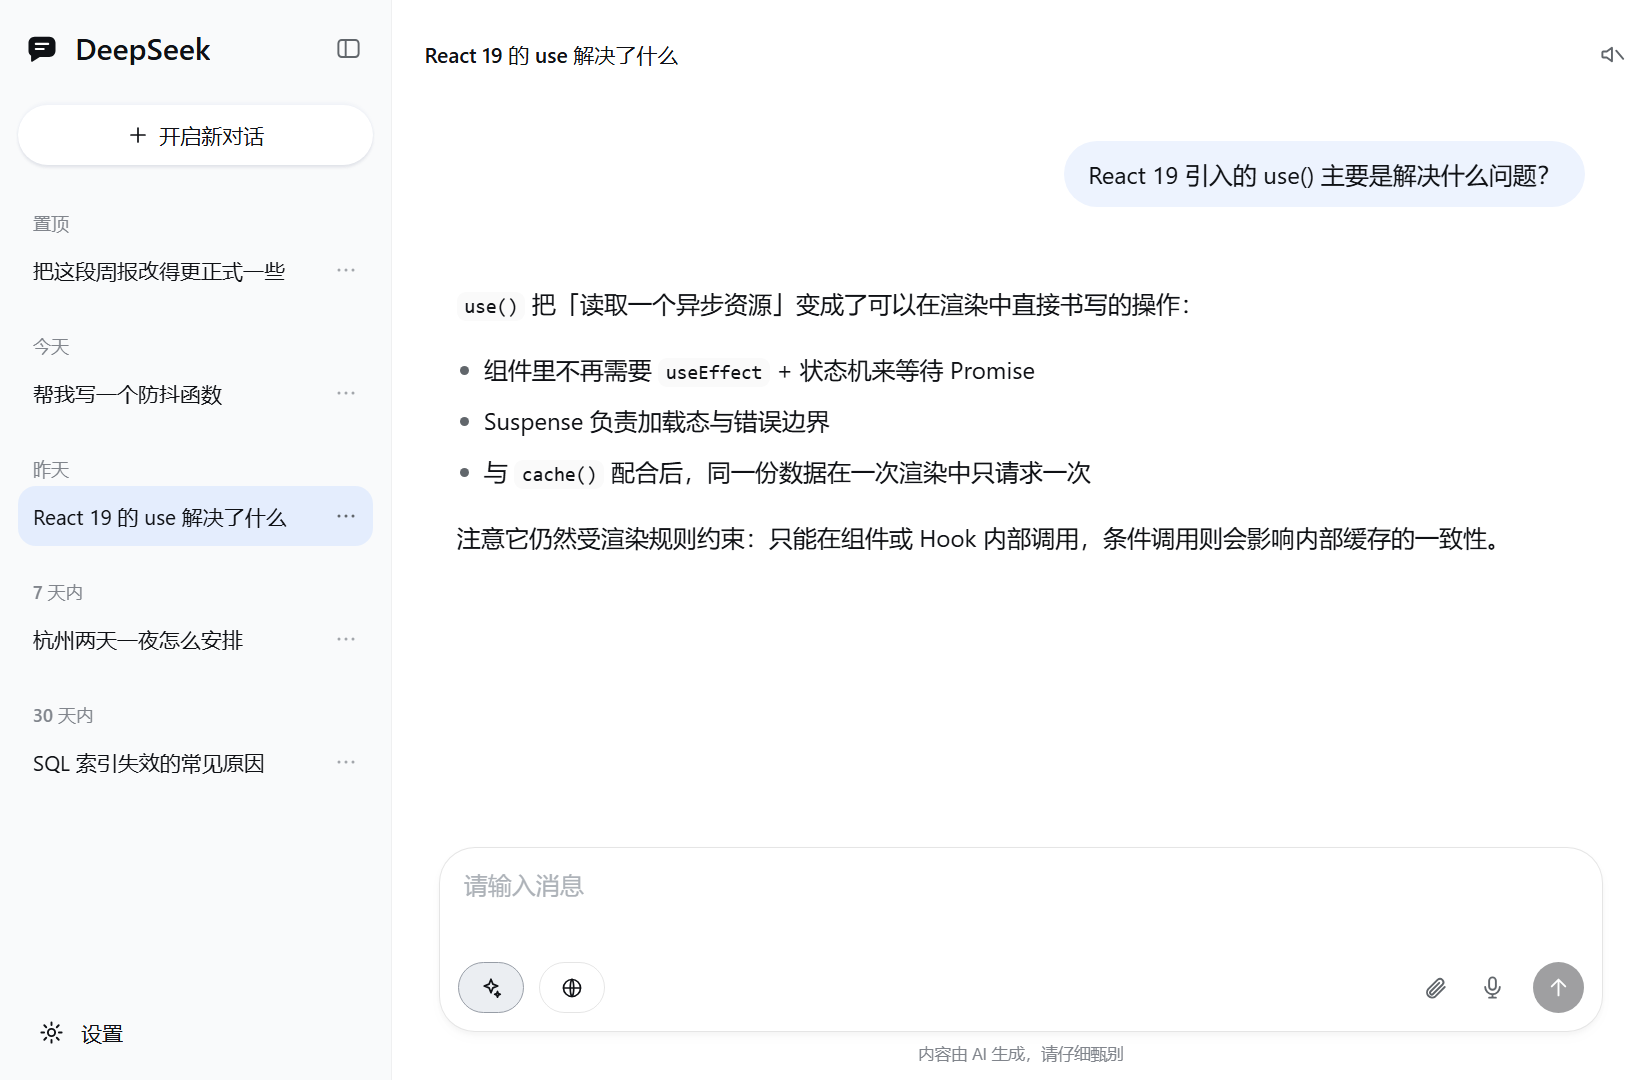
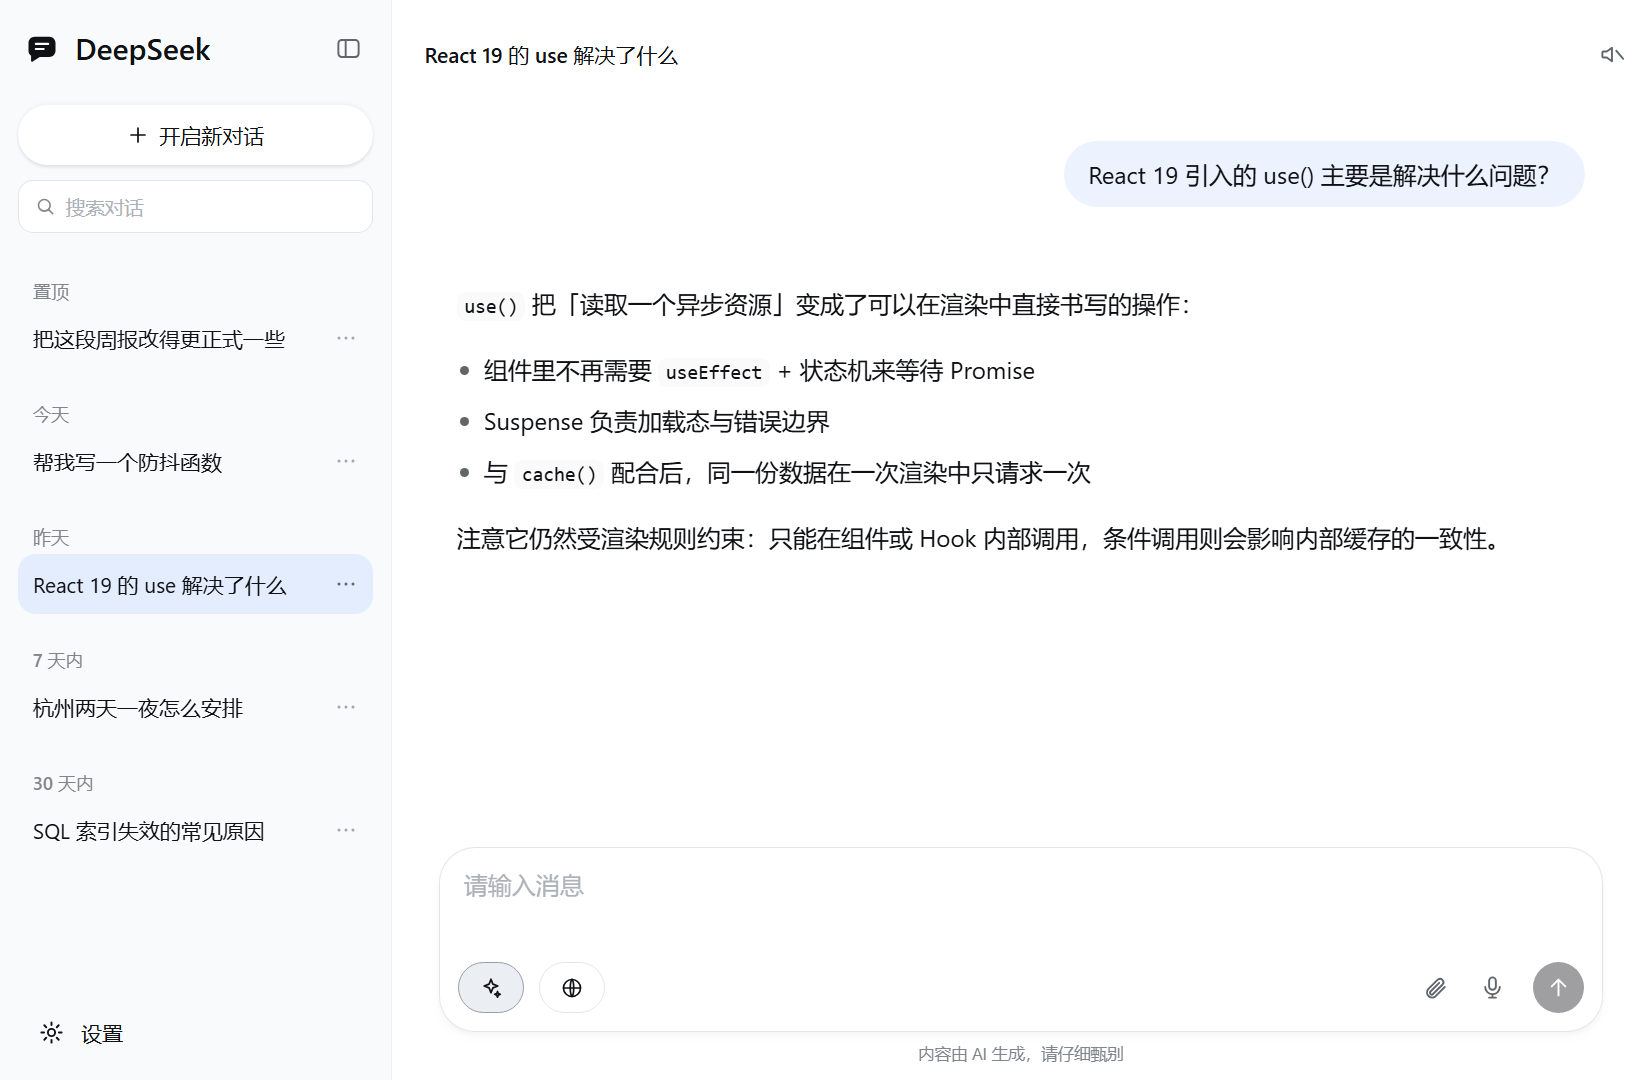
feat: per-conversation drafts and conversation search (v1.1.0)
- drafts keyed by conversation (and a __new__ slot) with their own
  debounced store, flushed on unmount; deleting a conversation drops it
- sidebar search filters titles and message bodies, with clear/Esc
  handling and a dedicated empty state
- new stylesheet guard caught a class collision with the web-search
  status row, so the filter uses cd-filter-* names
- tests cover both features (70 assertions); README screenshots refreshed

diff --git a/client.js b/client.js
@@ -14,6 +14,9 @@ window.__ModuleLoader__.load({
     const API = '/chat-replica';
     const STORE_THREADS = 'deepseek-chat-ui.threads.v1';
     const STORE_ACTIVE = 'deepseek-chat-ui.active.v1';
+    const STORE_DRAFTS = 'deepseek-chat-ui.drafts.v1';
+    /** 新建对话视图在草稿表里的键；真实会话用各自的 id。 */
+    const DRAFT_NEW = '__new__';
     const STORE_PREFS = 'deepseek-chat-ui.prefs.v1';
     const STORE_EXPORT_DIR = 'deepseek-chat-ui.export-dir.v1';
     const STORE_THEME_PREF = 'deepseek-chat-ui.theme-pref.v1';
@@ -116,6 +119,9 @@ window.__ModuleLoader__.load({
       'search.running': '正在搜索网页…',
       'search.failed': '联网搜索暂不可用',
       'search.count': '已阅读 {count} 个网页',
+      'search.placeholder': '搜索对话',
+      'search.clear': '清除',
+      'search.empty': '没有匹配的对话',
       'group.pinned': '置顶',
       'menu.open': '更多操作',
       'menu.rename': '重命名',
@@ -230,6 +236,9 @@ window.__ModuleLoader__.load({
       'search.running': 'Searching the web…',
       'search.failed': 'Web search is unavailable',
       'search.count': 'Read {count} web pages',
+      'search.placeholder': 'Search conversations',
+      'search.clear': 'Clear',
+      'search.empty': 'No matching conversations',
       'group.pinned': 'Pinned',
       'menu.open': 'More actions',
       'menu.rename': 'Rename',
@@ -408,6 +417,10 @@ window.__ModuleLoader__.load({
         ['path', { d: 'M5.5 11.5a6.5 6.5 0 0 0 13 0M12 18v3M9 21h6' }],
       ],
       x: [['path', { d: 'M6.5 6.5l11 11M17.5 6.5l-11 11' }]],
+      search: [
+        ['circle', { cx: 11, cy: 11, r: 6.2 }],
+        ['path', { d: 'M15.6 15.6L20 20' }],
+      ],
       chevronLeft: [['path', { d: 'M14.5 6l-6 6 6 6' }]],
       chevronDown: [['path', { d: 'M6 9.5l6 6 6-6' }]],
       volume: [
@@ -661,6 +674,23 @@ window.__ModuleLoader__.load({
         /* a corrupt store falls back to the seed */
       }
       return { threads: threads, activeId: activeId, prefs: loadPrefs() };
+    }
+
+    /** 每条对话各存一份草稿；新建对话视图用 DRAFT_NEW 作键。 */
+    function loadDrafts() {
+      const out = {};
+      try {
+        const raw = window.localStorage.getItem(STORE_DRAFTS);
+        const stored = raw ? JSON.parse(raw) : null;
+        if (stored !== null && typeof stored === 'object') {
+          Object.keys(stored).forEach(function (key) {
+            if (typeof stored[key] === 'string' && stored[key] !== '') out[key] = stored[key];
+          });
+        }
+      } catch (error) {
+        /* a corrupt store starts empty */
+      }
+      return out;
     }
 
     /** Accept our own export shape (or a bare array) and rebuild safe threads. */
@@ -1684,11 +1714,26 @@ window.__ModuleLoader__.load({
 
     function Sider(props) {
       const t = props.t;
+      const [query, setQuery] = useState('');
+      const needle = query.trim().toLowerCase();
+      /** 搜索命中标题或任意一条消息的正文；空查询直接返回全部。 */
+      const visibleThreads = useMemo(
+        function () {
+          if (needle === '') return props.threads;
+          return props.threads.filter(function (thread) {
+            if (thread.title.toLowerCase().indexOf(needle) >= 0) return true;
+            return thread.messages.some(function (message) {
+              return typeof message.text === 'string' && message.text.toLowerCase().indexOf(needle) >= 0;
+            });
+          });
+        },
+        [props.threads, needle],
+      );
       const groups = useMemo(
         function () {
-          return groupThreads(props.threads, t);
+          return groupThreads(visibleThreads, t);
         },
-        [props.threads, t],
+        [visibleThreads, t],
       );
       const [menu, setMenu] = useState(null);
       const menuRef = useRef(null);
@@ -1858,6 +1903,41 @@ window.__ModuleLoader__.load({
             ),
         h(
           'div',
+          { className: 'cd-filter' },
+          h(Icon, { name: 'search', size: 15 }),
+          h('input', {
+            className: 'cd-filter-input',
+            type: 'search',
+            value: query,
+            placeholder: t('search.placeholder'),
+            'aria-label': t('search.placeholder'),
+            onChange: function (event) {
+              setQuery(event.target.value);
+            },
+            onKeyDown: function (event) {
+              if (event.key !== 'Escape') return;
+              event.stopPropagation();
+              if (query !== '') setQuery('');
+            },
+          }),
+          query === ''
+            ? null
+            : h(
+                'button',
+                {
+                  type: 'button',
+                  className: 'cd-filter-clear',
+                  title: t('search.clear'),
+                  'aria-label': t('search.clear'),
+                  onClick: function () {
+                    setQuery('');
+                  },
+                },
+                h(Icon, { name: 'x', size: 13 }),
+              ),
+        ),
+        h(
+          'div',
           { className: 'cd-listwrap' },
           h(
             'div',
@@ -1867,7 +1947,13 @@ window.__ModuleLoader__.load({
                 if (menu !== null) setMenu(null);
               },
             },
-            groups.length === 0 ? h('div', { className: 'cd-list-empty' }, t('list.empty')) : null,
+            groups.length === 0
+              ? h(
+                  'div',
+                  { className: 'cd-list-empty' },
+                  needle === '' ? t('list.empty') : t('search.empty'),
+                )
+              : null,
             groups.map(function (group) {
               return h(
                 'div',
@@ -2347,11 +2433,15 @@ window.__ModuleLoader__.load({
       const localeService = getLocale ? getLocale() : null;
       const wide = useMedia('(min-width: 768px)');
       const initial = useRef(null);
-      if (initial.current === null) initial.current = Object.assign(loadState(), { tts: loadTts() });
+      if (initial.current === null) {
+        initial.current = Object.assign(loadState(), { tts: loadTts(), drafts: loadDrafts() });
+      }
 
       const [threads, setThreads] = useState(initial.current.threads);
       const [activeId, setActiveId] = useState(initial.current.activeId);
-      const [draft, setDraft] = useState('');
+      const [drafts, setDrafts] = useState(function () {
+        return initial.current.drafts;
+      });
       const [localeId, setLocaleId] = useState(function () {
         return readLocaleId(localeService);
       });
@@ -2411,6 +2501,45 @@ window.__ModuleLoader__.load({
           /* a full quota must not break the conversation */
         }
       }, []);
+
+      /** 草稿单独存：输入框按会话隔离，切换对话既不串也不丢。 */
+      const latestDraftsRef = useRef(initial.current.drafts);
+      latestDraftsRef.current = drafts;
+      const saveDraftsNow = useCallback(function (map) {
+        try {
+          const clean = {};
+          Object.keys(map).forEach(function (key) {
+            if (typeof map[key] === 'string' && map[key] !== '') clean[key] = map[key];
+          });
+          if (Object.keys(clean).length === 0) window.localStorage.removeItem(STORE_DRAFTS);
+          else window.localStorage.setItem(STORE_DRAFTS, JSON.stringify(clean));
+        } catch (error) {
+          /* a full quota must not break typing */
+        }
+      }, []);
+
+      const draftKey = activeId === null ? DRAFT_NEW : activeId;
+      const draft = drafts[draftKey] === undefined ? '' : drafts[draftKey];
+      const setDraftFor = useCallback(function (key, value) {
+        setDrafts(function (previous) {
+          const currentValue = previous[key] === undefined ? '' : previous[key];
+          const nextValue = typeof value === 'function' ? value(currentValue) : value;
+          if (nextValue === currentValue) return previous;
+          const next = Object.assign({}, previous);
+          if (nextValue === '') delete next[key];
+          else next[key] = nextValue;
+          return next;
+        });
+      }, []);
+      /** 输入框默认写当前会话；异步回调（如转写）也总能落到最新会话上。 */
+      const draftKeyRef = useRef(draftKey);
+      draftKeyRef.current = draftKey;
+      const setDraft = useCallback(
+        function (value) {
+          setDraftFor(draftKeyRef.current, value);
+        },
+        [setDraftFor],
+      );
 
       const dict = localeId === 'en' ? en : zh;
       const t = useCallback(
@@ -2503,6 +2632,19 @@ window.__ModuleLoader__.load({
         [threads, activeId, saveNow],
       );
 
+      /** 草稿变化也做短防抖：打字不落盘，停手 300 ms 后一次写入。 */
+      useEffect(
+        function () {
+          const timer = setTimeout(function () {
+            saveDraftsNow(latestDraftsRef.current);
+          }, 300);
+          return function () {
+            clearTimeout(timer);
+          };
+        },
+        [drafts, saveDraftsNow],
+      );
+
       /**
        * 切换面板会卸载本页，而上面的清理函数会取消待写的防抖任务，导致刚删除 /
        * 置顶 / 改名的对话在重新进入时“复活”。卸载前补写一次快照；App 关闭
@@ -2516,6 +2658,7 @@ window.__ModuleLoader__.load({
               saveTimerRef.current = null;
             }
             saveNow(latestSaveRef.current.threads, latestSaveRef.current.activeId);
+            saveDraftsNow(latestDraftsRef.current);
           };
           window.addEventListener('pagehide', flush);
           return function () {
@@ -2523,7 +2666,7 @@ window.__ModuleLoader__.load({
             flush();
           };
         },
-        [saveNow],
+        [saveNow, saveDraftsNow],
       );
 
       useEffect(
@@ -2918,11 +3061,11 @@ window.__ModuleLoader__.load({
             });
           });
           setActiveId(targetId);
-          setDraft('');
+          setDraftFor(activeId === null ? DRAFT_NEW : activeId, '');
           setAttachments([]);
           runAssistant(targetId, history, newId('a'), thinking, search);
         },
-        [draft, attachments, pending, activeId, threads, runAssistant, t, thinking, search],
+        [draft, attachments, pending, activeId, threads, runAssistant, t, thinking, search, setDraftFor],
       );
 
       const regenerate = useCallback(
@@ -3089,7 +3232,7 @@ window.__ModuleLoader__.load({
         if (abortRef.current) abortRef.current.abort();
         setPending(false);
         setActiveId(null);
-        setDraft('');
+        setDraftFor(DRAFT_NEW, '');
         setAttachments([]);
         closeDrawer();
         setTimeout(function () {
@@ -3118,6 +3261,15 @@ window.__ModuleLoader__.load({
           setThreads(next);
           setActiveId(nextActive);
           saveNow(next, nextActive);
+          setDrafts(function (previous) {
+            let removed = false;
+            const kept = {};
+            Object.keys(previous).forEach(function (key) {
+              if (ids.indexOf(key) >= 0) removed = true;
+              else kept[key] = previous[key];
+            });
+            return removed ? kept : previous;
+          });
         },
         [threads, activeId, saveNow],
       );
@@ -3335,9 +3487,11 @@ window.__ModuleLoader__.load({
           setPending(false);
           setThreads([]);
           setActiveId(null);
+          setDrafts({});
           saveNow([], null);
+          saveDraftsNow({});
         },
-        [saveNow],
+        [saveNow, saveDraftsNow],
       );
 
       const collapsed = !wide || !sidebarOpen;
@@ -3765,6 +3919,13 @@ window.__ModuleLoader__.load({
 .cd-newchat:focus-visible{outline:2px solid var(--dsw-alias-brand-primary);outline-offset:2px}
 [data-ds-dark-theme] .cd-newchat{border:none;box-shadow:inset 0 1px 1px rgba(255,255,255,.1),0 2px 4px rgba(106,111,117,.08)}
 .cd-newchat-icon{display:flex;margin-right:6px}
+.cd-filter{display:flex;flex-shrink:0;align-items:center;gap:6px;height:34px;margin-top:10px;padding:0 8px 0 10px;border:1px solid var(--dsw-alias-border-l2);border-radius:10px;background:var(--dsw-alias-bg-layer-2);color:var(--dsw-alias-label-tertiary)}
+.cd-filter:focus-within{border-color:var(--dsw-alias-brand-primary)}
+.cd-filter-input{flex:1;min-width:0;height:100%;padding:0;border:none;outline:none;background:transparent;color:var(--dsw-alias-label-primary);font:13px/20px var(--dsw-font-family)}
+.cd-filter-input::placeholder{color:var(--dsw-alias-label-caption)}
+.cd-filter-input::-webkit-search-cancel-button{display:none}
+.cd-filter-clear{display:flex;flex-shrink:0;align-items:center;justify-content:center;width:20px;height:20px;padding:0;border:none;border-radius:50%;background:transparent;color:var(--dsw-alias-label-tertiary);cursor:pointer}
+.cd-filter-clear:hover{background:var(--dsw-alias-interactive-bg-hover);color:var(--dsw-alias-label-primary)}
 .cd-listwrap{position:relative;flex:1;min-height:0;margin-top:24px}
 .cd-list{height:100%;margin:0 -2px;padding:0 2px;overflow-y:auto;overscroll-behavior:contain;scrollbar-width:thin}
 .cd-section{position:relative;margin-top:16px;padding-top:4px}
@@ -3811,6 +3972,8 @@ window.__ModuleLoader__.load({
 .cd-settings-label{overflow:hidden;margin-left:4px;color:var(--dsw-alias-label-primary);font-size:14px;white-space:nowrap;text-overflow:ellipsis}
 
 .cd-sider-mobile .cd-listwrap{margin-top:16px}
+.cd-sider-mobile .cd-filter{height:38px;margin-top:14px}
+.cd-sider-mobile .cd-filter-input{font-size:15px}
 .cd-sider-mobile .cd-section-header{padding:4px 10px 3px;font-size:14px;line-height:22px}
 .cd-sider-mobile .cd-item{height:44px;padding:11px 6px 11px 12px;border-radius:16px;font-size:16px}
 .cd-sider-mobile .cd-item-title{line-height:22px}

diff --git a/CHANGELOG.md b/CHANGELOG.md
@@ -3,6 +3,22 @@
 每个版本同时保留中文与 English 两小节；`scripts/release-notes.mjs` 会取出版本对应小节作为 GitHub Release 的正文。
 Every version keeps a Chinese and an English section together; `scripts/release-notes.mjs` turns that section into the GitHub Release body.
 
+## 1.1.0
+
+### 中文
+
+- 新增会话搜索：按标题与消息全文过滤，命中为空时提示「没有匹配的对话」，Esc 或清除按钮恢复全部
+- 草稿按会话隔离：切换对话不再把半句话带过去，切走面板再回来草稿仍在（`deepseek-chat-ui.drafts.v1`）
+- 删除会话或「删除所有对话」时同步清理对应草稿
+- README 截图更新，补上搜索入口
+
+### English
+
+- Added conversation search: filters titles and message bodies, shows "No matching conversations" when nothing hits, and Esc or the clear button restores the full list
+- Drafts are now stored per conversation: switching conversations no longer carries text over, and a draft survives leaving the panel (`deepseek-chat-ui.drafts.v1`)
+- Deleting a conversation (or all conversations) removes its draft too
+- Refreshed the README screenshots to show the search field
+
 ## 1.0.1
 
 ### 中文

diff --git a/README.en.md b/README.en.md
@@ -26,6 +26,8 @@ Light theme:
 ## Features
 
 - Conversation sidebar grouped by Today / Yesterday / Previous 7 days / Previous 30 days, persisted locally; the `☰` capsule opens the drawer and `＋` starts a new conversation
+- Conversation search filters titles and message bodies; Esc or the clear button in the field restores the full list
+- Drafts are stored per conversation: half a sentence typed in A never shows up in B, and it survives leaving the panel
 - Message bubbles, welcome screen, composer, Markdown (headings / lists / inline code / code blocks) and a collapsible "Thought" block
 - Upload text files, voice input, send / stop on the right of the composer
 - "Deep thinking" maps to the model's reasoningEffort (on = max, off = off; levels come from the model declaration)

diff --git a/README.md b/README.md
@@ -25,6 +25,8 @@
 ## 功能
 
 - 会话侧栏：按今天 / 昨天 / 7 天内 / 30 天内分组，本地持久化；右上角胶囊 `☰` 打开抽屉、`＋` 新建对话
+- 会话搜索：按标题与消息全文过滤；Esc 或输入框里的清除按钮恢复全部
+- 草稿按会话隔离：在 A 里打半句去 B 不会串，切走面板再回来也还在
 - 消息气泡、欢迎语、输入框，Markdown（标题 / 列表 / 行内代码 / 代码块）与「已思考」折叠块
 - 输入框右侧：📎 上传文本文件、🎤 语音输入、发送 / 停止
 - 「深度思考」映射到模型的 reasoningEffort（开 = max，关 = off，档位取自模型声明）
